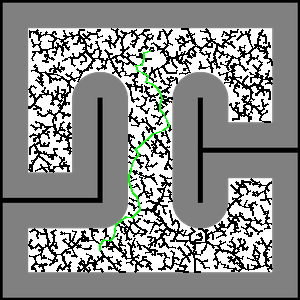
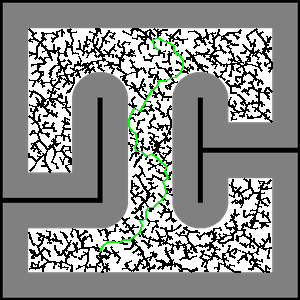
locomotion precision update

Changed region(s): [[0.09, 0.09, 0.93, 0.93]]

diff --git a/finalproject.py b/finalproject.py
@@ -7,6 +7,7 @@ import rrt_map
 import particle_filter
 import rrt
 import numpy as np
+import time
 
 
 
@@ -31,7 +32,7 @@ class Run:
         # TODO identify good PID controller gains
         self.pidTheta = pid_controller.PIDController(300, 5, 50, [-10, 10], [-200, 200], is_angle=True)#pid_controller.PIDController(200, 0, 100, [-10, 10], [-50, 50], is_angle=True)
         # TODO identify good particle filter parameters
-        self.pf = particle_filter.ParticleFilter(self.mapJ, 1000, 0.01, 0.05, 0.1)#particle_filter.ParticleFilter(self.mapJ, 1000, 0.06, 0.15, 0.2)
+        self.pf = particle_filter.ParticleFilter(self.mapJ, 1200, 0.01, 0.05, 0.1)#particle_filter.ParticleFilter(self.mapJ, 1000, 0.06, 0.15, 0.2)
 
         self.joint_angles = np.zeros(7)
 
@@ -65,7 +66,7 @@ class Run:
         old_theta = self.odometry.theta
         while math.fabs(math.atan2(
             math.sin(goal_theta - self.odometry.theta),
-            math.cos(goal_theta - self.odometry.theta))) > 0.05:
+            math.cos(goal_theta - self.odometry.theta))) > 0.01:
             output_theta = self.pidTheta.update(self.odometry.theta, goal_theta, self.time.time())
             self.create.drive_direct(int(+output_theta), int(-output_theta))
             self.sleep(0.01)
@@ -88,7 +89,7 @@ class Run:
             # stop if close enough to goal
             distance = math.sqrt(math.pow(goal_x - self.odometry.x, 2) + math.pow(goal_y - self.odometry.y, 2))
             if distance < 0.05:
-                self.create.drive_direct(0, 0)
+                #self.create.drive_direct(0, 0)
                 break
             self.sleep(0.01)
         self.pf.move_by(self.odometry.x - old_x, self.odometry.y - old_y, self.odometry.theta - old_theta)
@@ -113,6 +114,12 @@ class Run:
         real_x = position[0] / 100.
         real_y = (self.map.height - position[1]) / 100.
         return (real_x, real_y)
+    
+    def calcualte_cup_position(self, location):
+        distance = 0.05
+        cup_x = location[0] - distance * math.cos(location[2])
+        cup_y = location[1] - distance * math.sin(location[2])
+        return (cup_x, cup_y) 
 
 
     ### section2
@@ -159,6 +166,7 @@ class Run:
         return dist
 
     def run(self):
+        start_time = time.time()
         self.create.start()
         self.create.safe()
 
@@ -187,8 +195,6 @@ class Run:
             self.map.draw_line((path[idx].state[0], path[idx].state[1]), (path[idx+1].state[0], path[idx+1].state[1]), (0,255,0))
         self.map.save("lab10_rrt.png")
 
-        self.virtual_create.set_pose((1.5, 1.5, 0.1), 0)
-
         # request sensors
         self.create.start_stream([
             create2.Sensor.LeftEncoderCounts,
@@ -202,6 +208,12 @@ class Run:
 
         # execute the path
         for p in path:
+            # avoid initial position
+            if count == 0:
+                count += 1
+                distance = self.sonar.get_distance()
+                self.pf.measure(distance, 0)
+                continue
             real_position = self.image_to_real(p.state)
             goal_x = real_position[0]
             goal_y = real_position[1]
@@ -218,35 +230,47 @@ class Run:
                     self.create.drive_direct(int(base_speed+output_theta), int(base_speed-output_theta))
 
                     distance = math.sqrt(math.pow(goal_x - self.odometry.x, 2) + math.pow(goal_y - self.odometry.y, 2))
-                    if distance < 0.1:
-                        self.create.drive_direct(0, 0)
+                    #print(distance)
+                    if distance < 0.05:
+                        #self.create.drive_direct(0, 0)
                         break
                     self.pf.move_by(self.odometry.x - old_x, self.odometry.y - old_y, self.odometry.theta - old_theta)
-            if count % 3 == 0:
+            if count % 3 == 0 or count == len(path) - 1:
                 distance = self.sonar.get_distance()
                 self.pf.measure(distance, 0)
 
                 x, y, theta = self.pf.get_estimate()
                 error_pos = self.distance((x, y), (self.odometry.x, self.odometry.y))
                 error_theta = abs(theta - self.odometry.theta)
-
+                #print("{}: {}".format(error_pos, (x, y)))
                 if error_pos < 0.05:
                     self.odometry.x = x
                     self.odometry.y = y
-
+                #print(math.degrees(theta))
                 #print("Error: {}, {}, Estimate pos: ({}, {}, {}), odometry pos: ({}, {}, {})".format(error_pos, error_theta, x, y, theta, self.odometry.x, self.odometry.y, self.odometry.theta))
             self.visualize()
             count += 1
 
+        self.create.drive_direct(0, 0)
+        self.go_to_angle(math.pi/2.)
         reached_goal_location = (self.odometry.x, self.odometry.y)
-        print(reached_goal_location)
+        print("odometry theta: {}".format(math.degrees(self.odometry.theta)))
+        print("estimate goal location: {}".format(reached_goal_location))
+        self.create.sim_get_position()
+        self.time.sleep(2)
         location = self.create.sim_get_position()
+        print("real goal location: {}".format(location))
+        #location = reached_goal_location
+        
 
         # distance_to_arm needs cup's absolute x, y coordinates
         # for current arm and shelf setup, cup's x, y need to satisfy x = 1.6, y = 2.38~2.59
         dist = self.distance_to_arm(location[0], location[1])
         self.grip_and_place(dist)
 
+        print("--- %s seconds ---" % (time.time() - start_time))
+        while True:
+            shit = 0
 
         '''
         while True:
